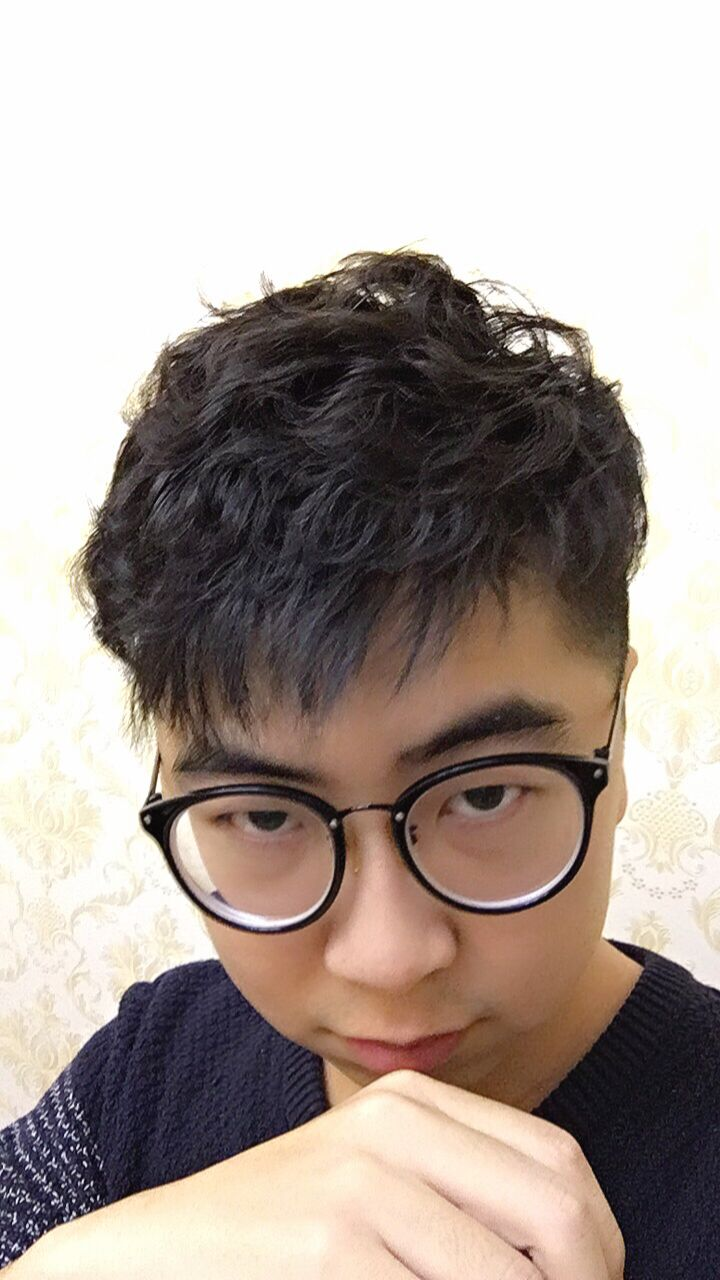
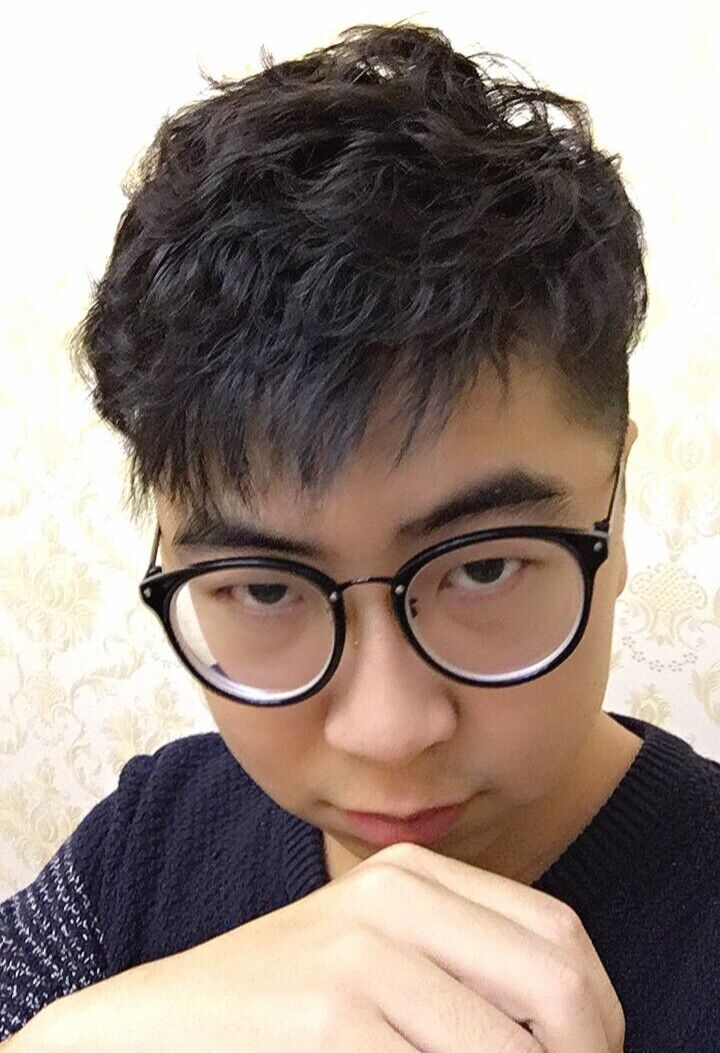
update

diff --git a/index.html b/index.html
@@ -105,8 +105,7 @@
             <div class="section-heading"><h2>Team</h2></div>
             <h3>Bachelor</h3>
             <div id="photo"><img src="images/team/2014_shan.jpg"></div>
-            <h4>Chengshan Ding</h4>
-            <br>
+            <div class="section-heading"><h4>Chengshan Ding</h4></div>
             
             <div id="contact">
                 The 2014 session<br>
@@ -120,7 +119,7 @@
             </div>
 
             <div id="photo"><img src="images/team/2016_Yangfan.jpg"></div>
-            <h4>Fan Yang</h4>
+            <div class="section-heading"><h4>Fan Yang</h4></div>
             <br>
             
             <div id="contact">
@@ -134,8 +133,8 @@
                 <a href="mailto:2569436220@qq.com">Email</a> <br>
             </div>
 
-            <div id="photo"><img src="images/team/2016_Wangliyuan.jpg"></div>
-            <h4>Liyuan Wang</h4>
+            <div id="photo"><img src="images/team/2016_Wangliyuan_1.jpg"></div>
+            <div class="section-heading"><h4>Liyuan Wang</h4></div>
             <br>
             
             <div id="contact">
